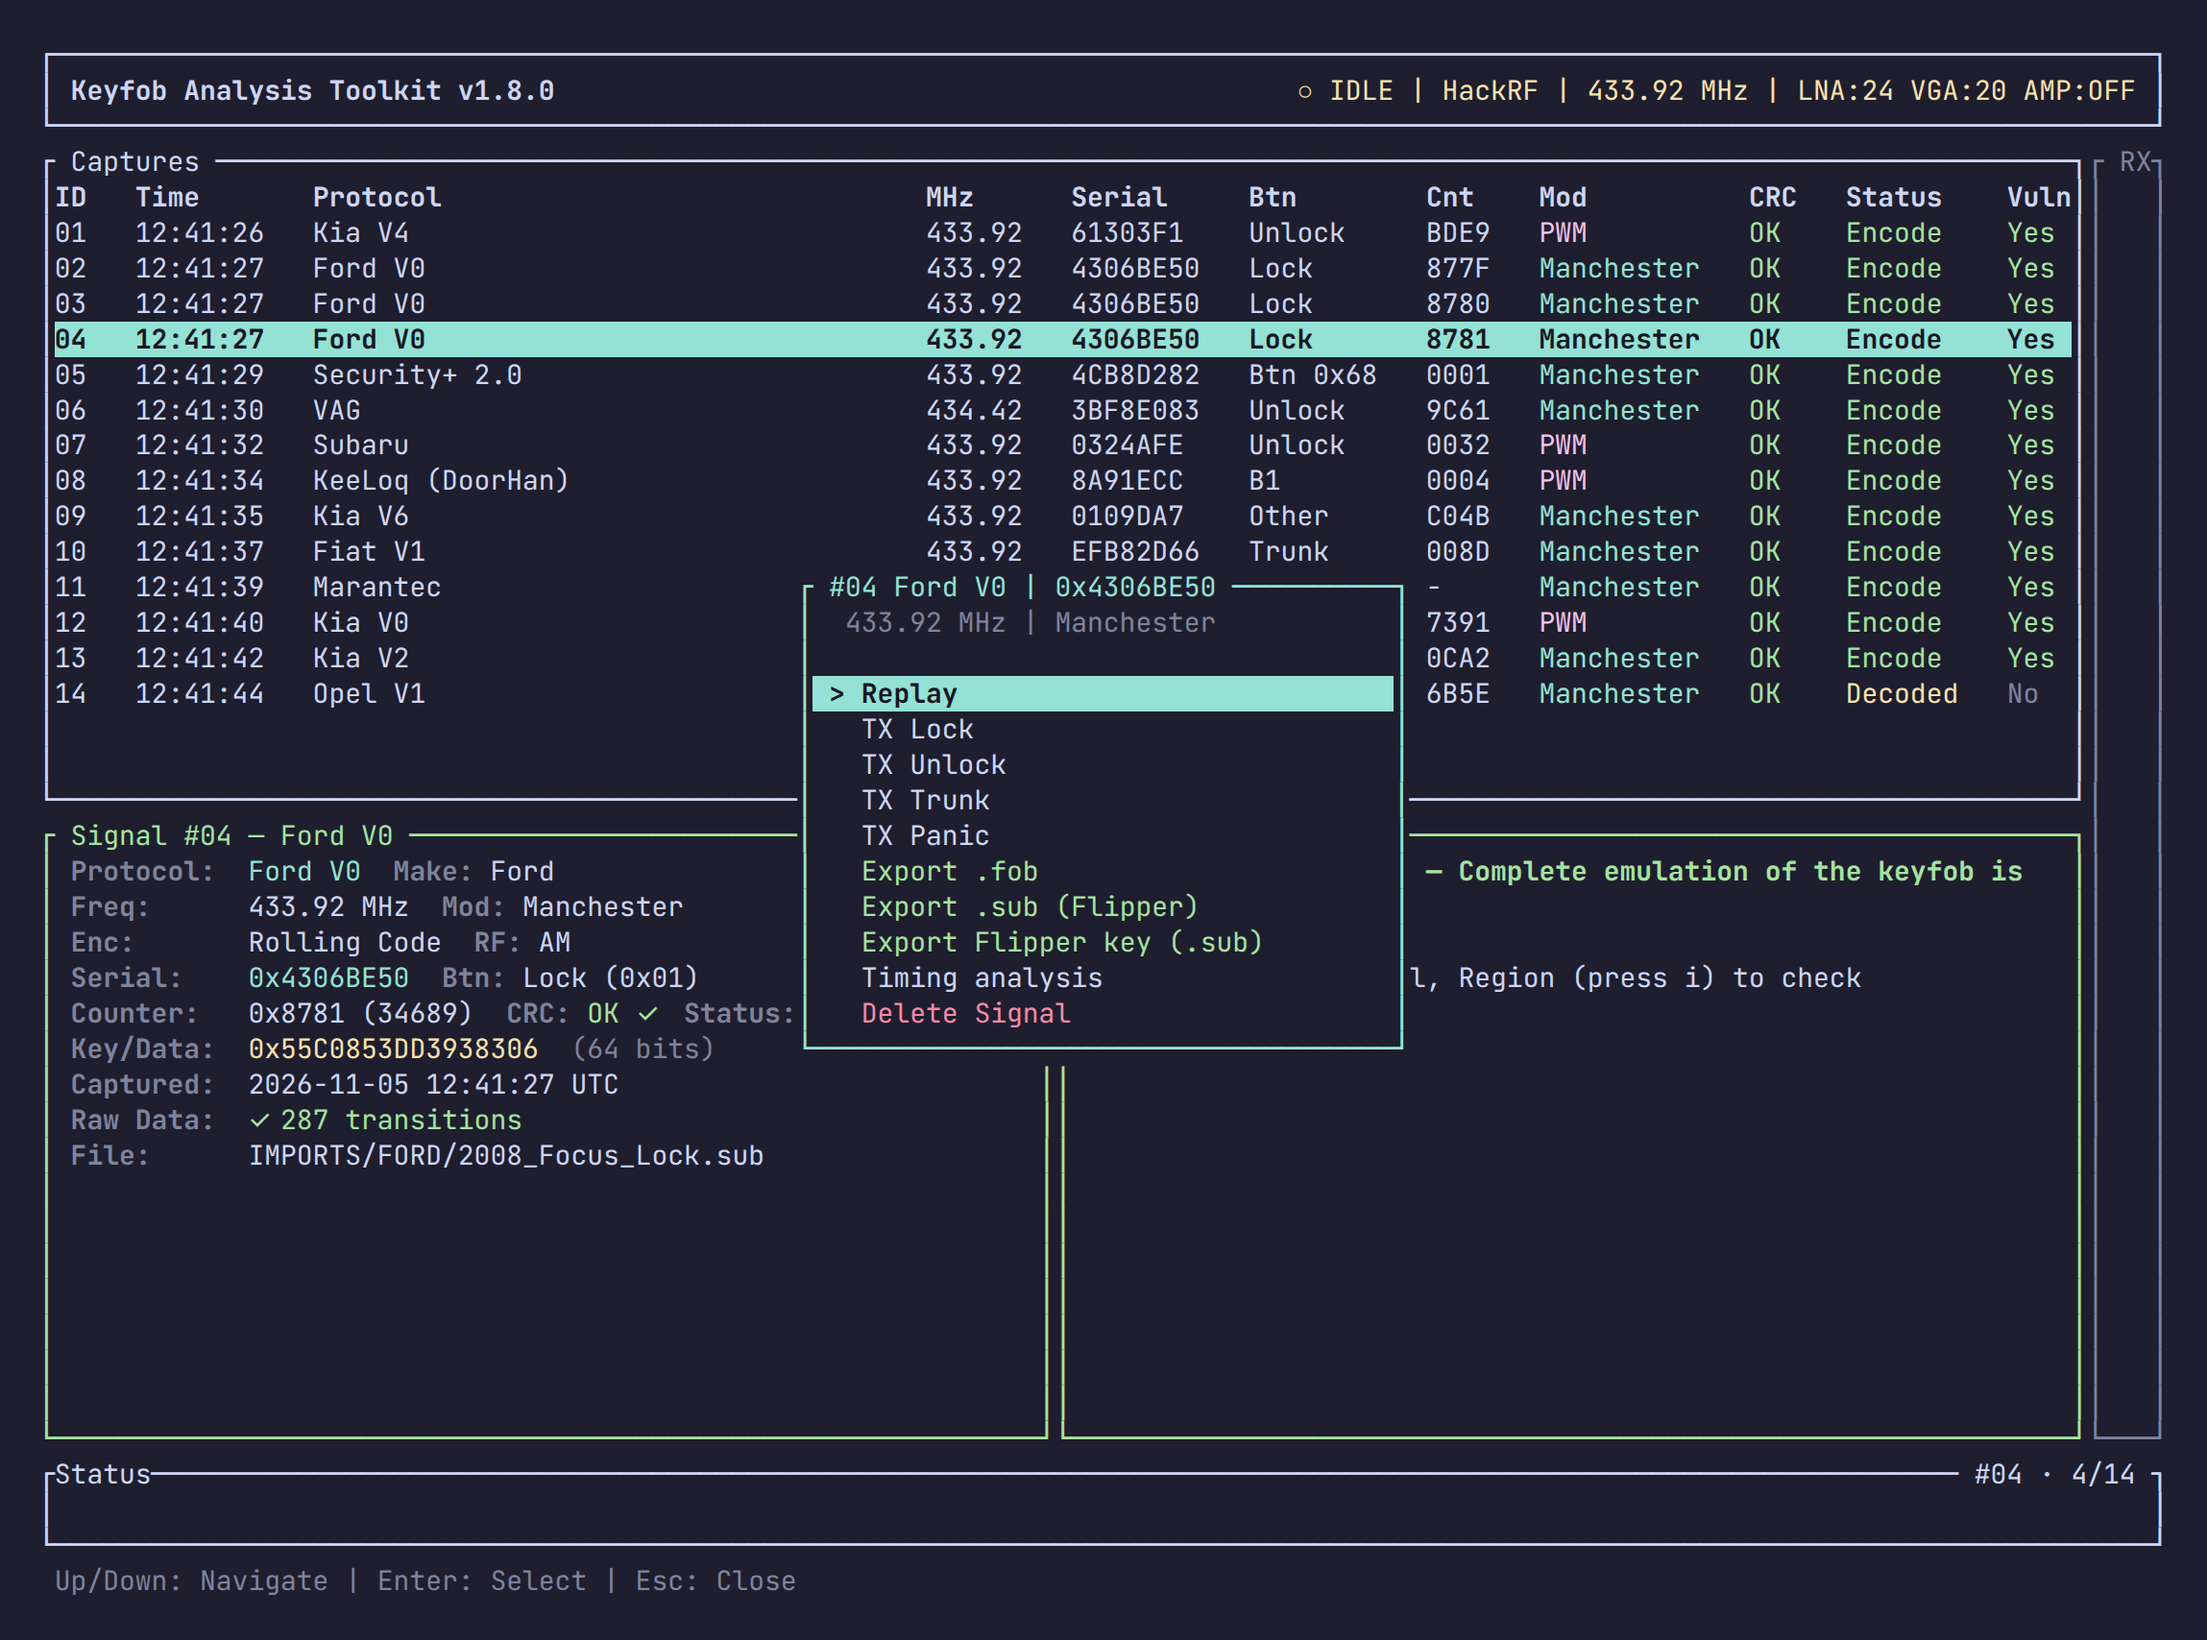
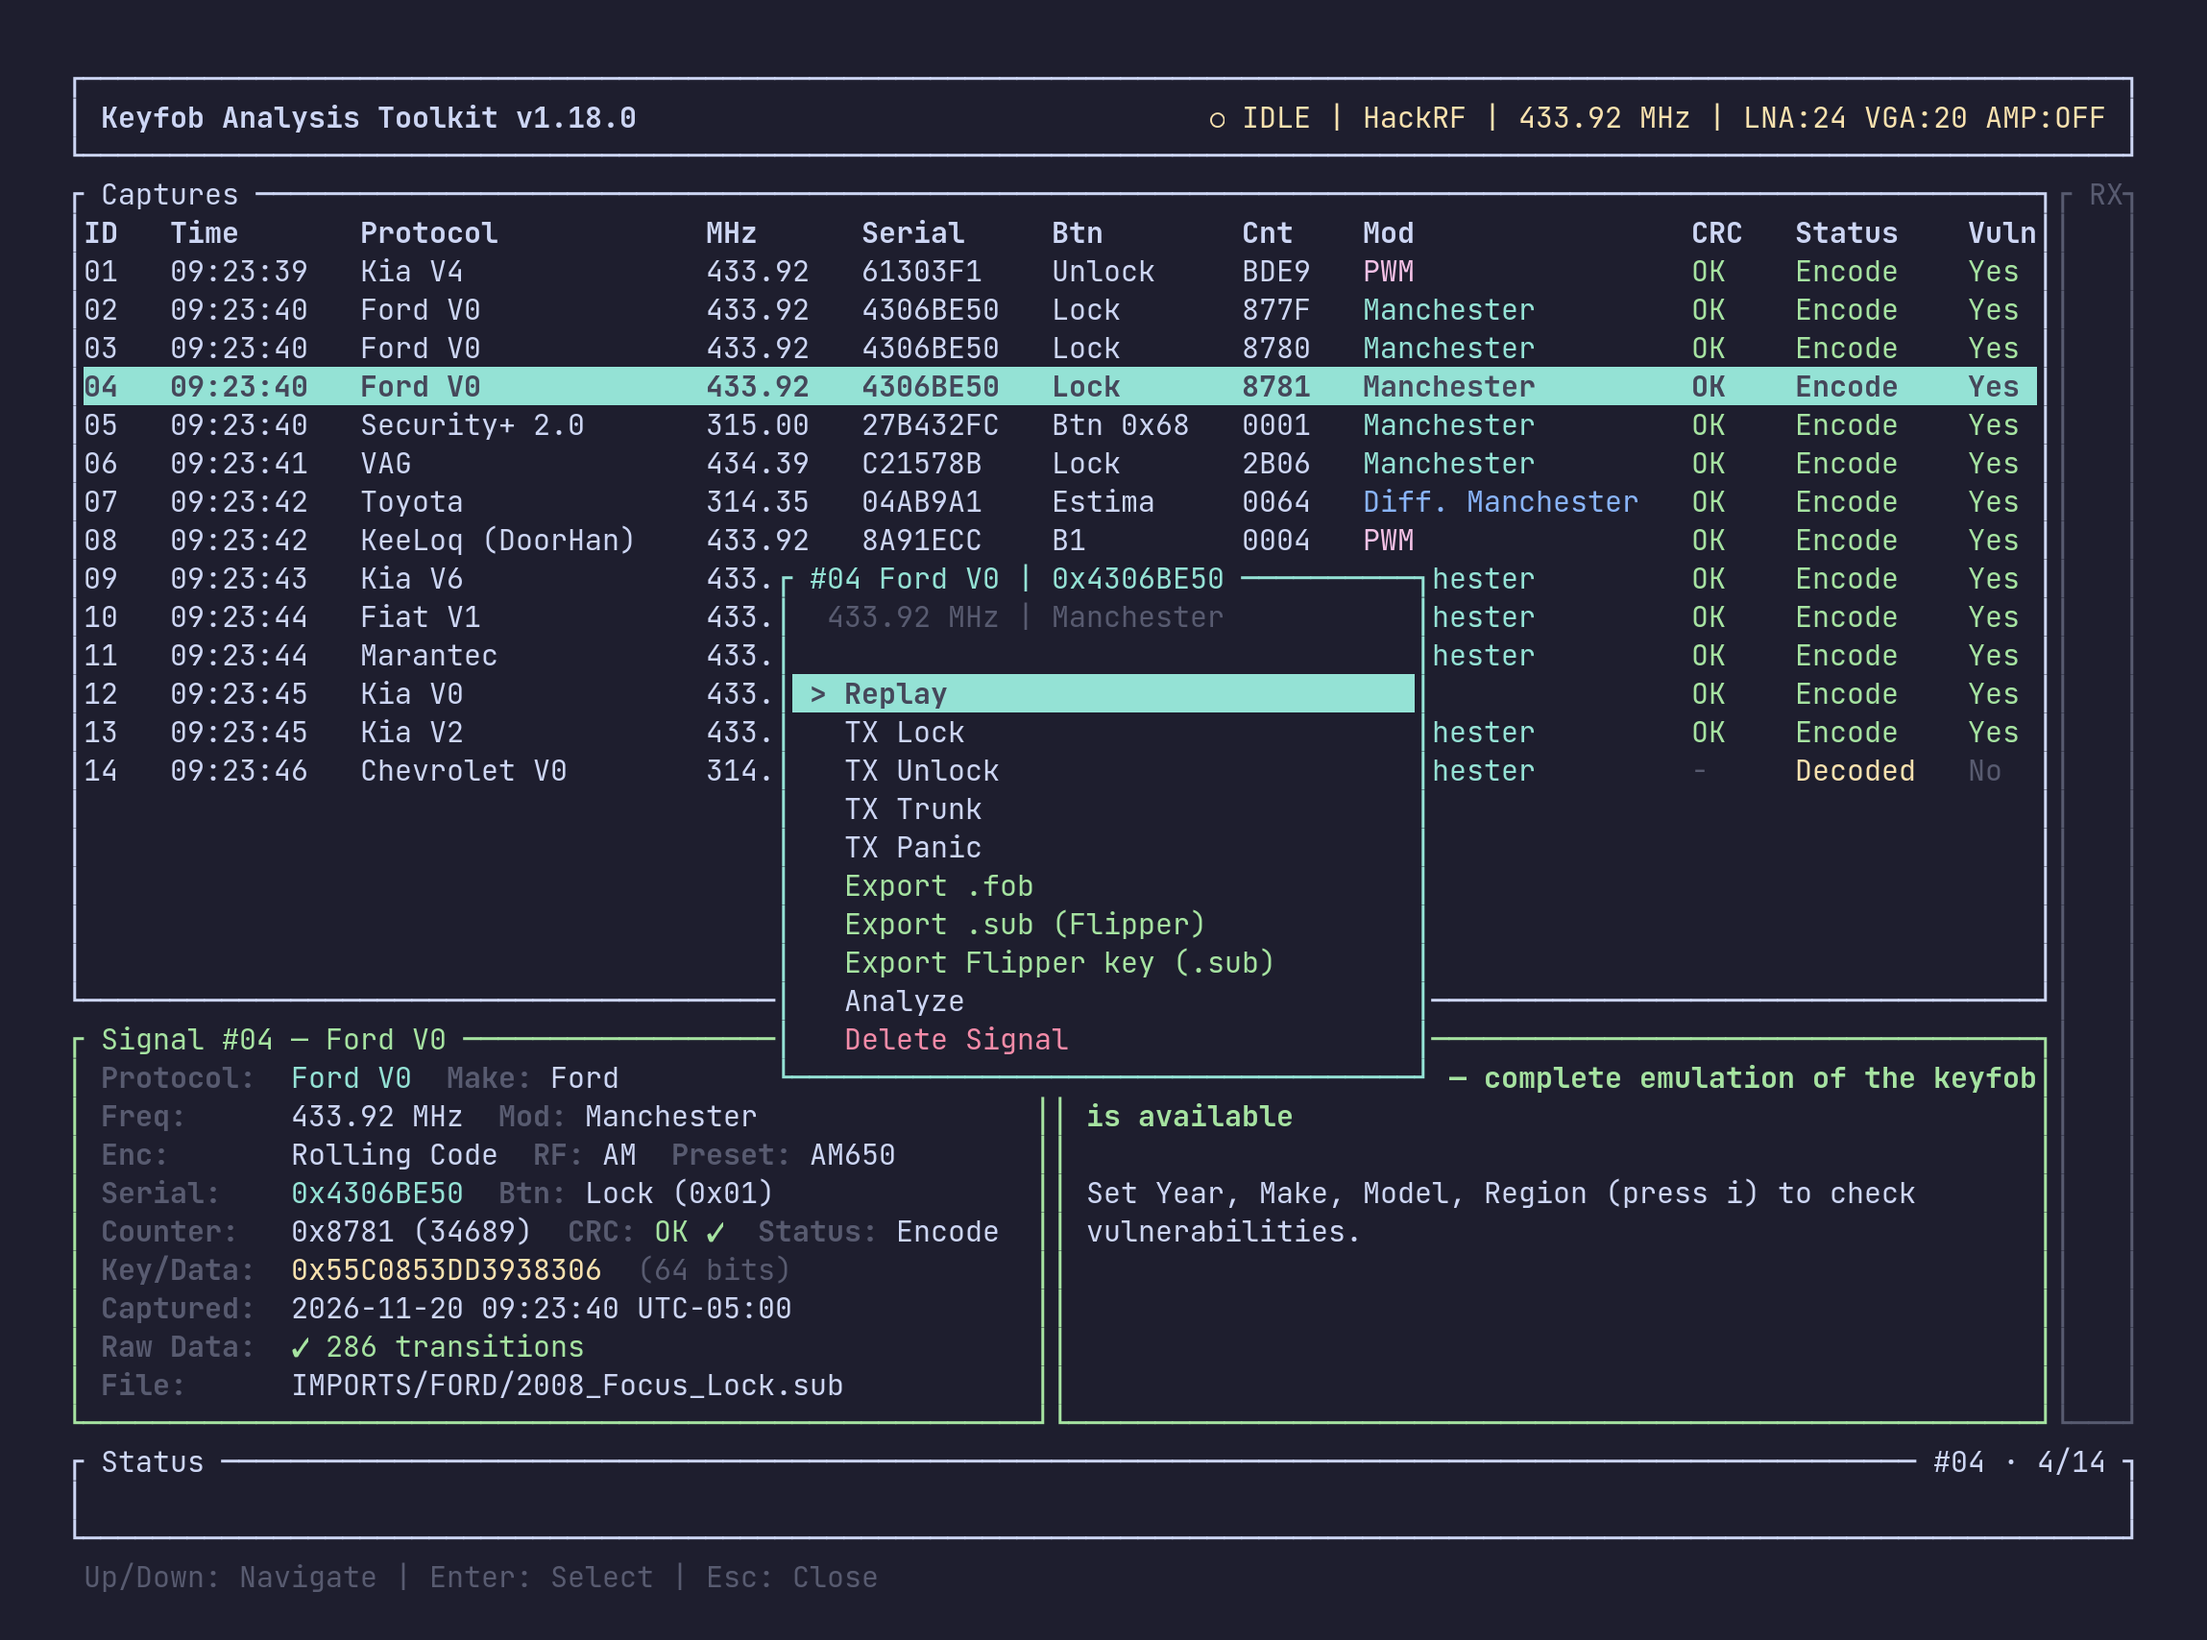
Site: the app's screenshots from 1.18.0
The home page's two screenshots of the app were from 1.8.0, whose action menu still offered Timing
analysis (folded into Analyze in 1.11.0). Retaken with 1.18.0 and a HackRF attached, at the same
size, from the same kind of list (two of its gate remotes are made with :new); the alt texts say
what they show now.

Claude-Session: https://claude.ai/code/session_01RVNzQQfWQfSgMyBfcvSSY8

diff --git a/docs/index.html b/docs/index.html
@@ -85,7 +85,7 @@
       </div>
       <a href="img/kat-captures.webp">
         <img src="img/kat-captures.webp" width="2298" height="1708" loading="eager"
-          alt="KAT's main screen. The captures list holds 14 decoded signals: Kia V4; three frames from one Ford V0 fob, its counter stepping 877F, 8780, 8781; Security+ 2.0, VAG, Subaru, KeeLoq (DoorHan), Kia V6, Fiat V1, Marantec, Kia V0, Kia V2 and Opel V1. Below it, the selected Ford V0 capture's details: serial 0x4306BE50, button Lock, counter 0x8781, CRC OK and its 64-bit key, beside the Vulnerability panel.">
+          alt="KAT's main screen with a HackRF attached. The captures list holds 14 decoded signals: Kia V4; three frames from one Ford V0 fob, its counter stepping 877F, 8780, 8781; Security+ 2.0, VAG, Toyota, KeeLoq (DoorHan), Kia V6, Fiat V1, Marantec, Kia V0, Kia V2 and Chevrolet V0. Below it, the selected Ford V0 capture's details: serial 0x4306BE50, button Lock, counter 0x8781, CRC OK and its 64-bit key, beside the Vulnerability panel.">
       </a>
     </figure>
 
@@ -176,7 +176,7 @@
       </div>
       <a href="img/kat-actions.webp">
         <img src="img/kat-actions.webp" width="2298" height="1708" loading="lazy"
-          alt="The same screen with the action menu open on the Ford V0 capture: Replay, TX Lock, TX Unlock, TX Trunk, TX Panic, three exports, Timing analysis and Delete.">
+          alt="The same screen with the action menu open on the Ford V0 capture: Replay, TX Lock, TX Unlock, TX Trunk, TX Panic, three exports, Analyze and Delete Signal.">
       </a>
       <figcaption><strong>A capture's actions.</strong> Transmitting needs a HackRF or a Flipper Zero, and the owner's written permission.</figcaption>
     </figure>

diff --git a/CHANGELOG.md b/CHANGELOG.md
@@ -21,6 +21,7 @@ All notable changes to KAT are documented here.
 - **Presses left out of the list.** A file of several presses of a remote with a frame longer than 64 bits (Honda V5, Ford V1, Fiat V2, the Continental Honda remotes) listed only the first press of each button: the rest were taken for repeats, because only the first 64 bits of a frame, its fixed part, were compared. The counter is compared too now, as for a burst received live. Of the 427 recordings that decode, 26 list more captures: one of 35 presses of a Continental remote listed 1 capture and lists 35, a Jeep remote's 8 presses listed 4 and list 8.
 - Wording: "Found 1 file … Import it?" at startup (was "Import them?"), the `:clear` prompt's warning on a line of its own, "Btn: 0x04" for a numbered button (was "Btn: Btn 4 (0x04)"), "RF: -" for an undecoded signal like its other empty fields, "41 bits after 1 pulse" in Analyze, and `:new`'s message without "counter -" for a remote that has no counter.
 - The changelog page's crumbs file it under Reference, as the site's menus do.
+- The home page's two screenshots of the app were of 1.8.0, whose action menu still offered Timing analysis; they show 1.18.0 now, at the same size.
 - The HiTag2 Hell page still said KAT's search stays on the CPU; the README, the KeeLoq page and the home page did not mention the graphics card that 1.18.0 uses.
 
 ## [1.18.0] - 2026-11-19
